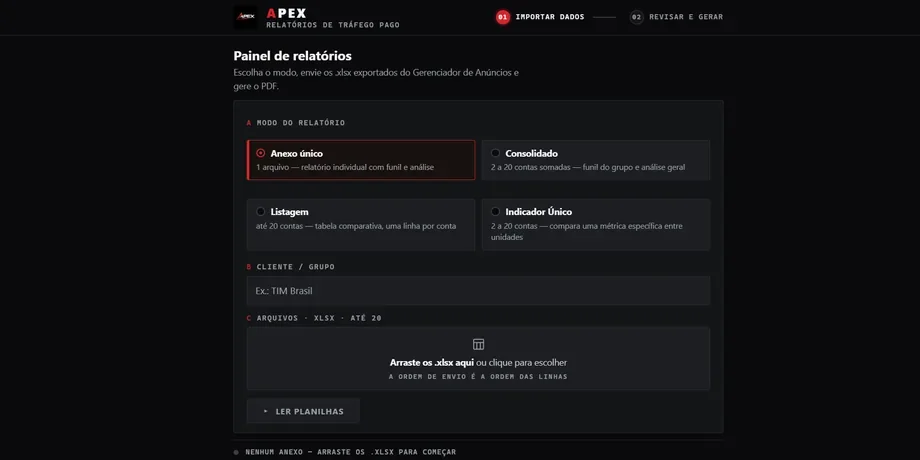
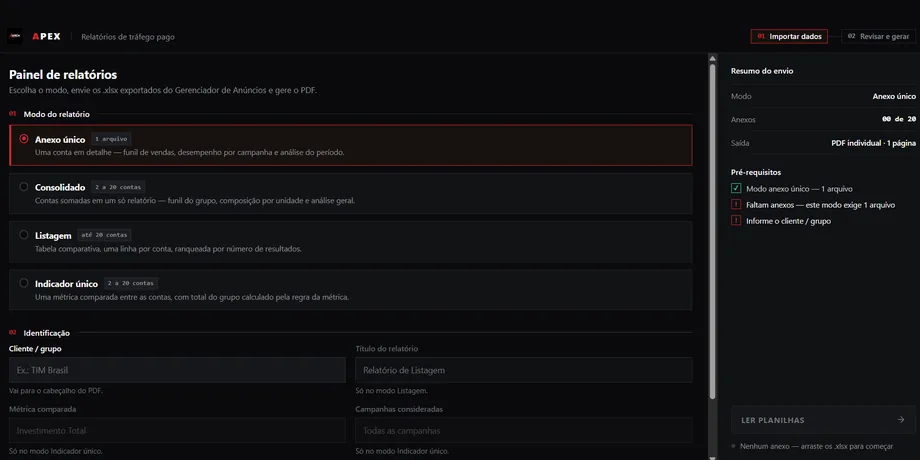
feat: Turn Experience and Skills into carousels

diff --git a/static/css/style.css b/static/css/style.css
@@ -152,11 +152,6 @@ section[id] {
     .carousel-viewport {
         scroll-behavior: auto;
     }
-
-    .exp-row.is-collapsible .exp-body,
-    .exp-toggle-icon {
-        transition: none;
-    }
 }
 
 /* ---------- Header ---------- */
@@ -514,13 +509,35 @@ html:not([data-theme="light"]) .icon-sun {
 }
 
 /* ---------- Experiência ---------- */
+/* Cada cargo é um card do carrossel: as atividades ficam à vista e a seção
+   mantém a mesma altura por mais cargos que sejam cadastrados. */
 
-.exp-row {
+/* Dois por página (e não os três do padrão): as atividades do cargo precisam
+   de largura. A dupla classe é para vencer o `.carousel` base, que vem depois
+   nesta folha e tem a mesma especificidade. */
+.carousel.exp-carousel {
+    --per-view: 2;
+}
+
+.exp-card {
+    display: flex;
+    flex-direction: column;
+    gap: 18px;
+    padding: 24px;
+    border: 1px solid var(--pf-border);
+    border-radius: 8px;
+    background: color-mix(in srgb, var(--pf-surface) 55%, transparent);
+}
+
+.exp-card:hover {
+    border-color: var(--pf-accent);
+}
+
+.exp-card-head {
     display: grid;
-    grid-template-columns: minmax(56px, 88px) minmax(0, 340px) minmax(0, 1fr);
-    gap: var(--leading) clamp(24px, 4vw, 64px);
-    padding: calc(1.5 * var(--leading)) 0;
-    border-top: 1px solid var(--pf-border);
+    grid-template-columns: auto minmax(0, 1fr);
+    gap: 4px 16px;
+    align-items: start;
 }
 
 .exp-num {
@@ -532,8 +549,8 @@ html:not([data-theme="light"]) .icon-sun {
 
 .exp-role {
     font-weight: 500;
-    font-size: 22px;
-    line-height: 28px;
+    font-size: 20px;
+    line-height: 26px;
     letter-spacing: -0.01em;
     margin-bottom: 6px;
 }
@@ -551,65 +568,10 @@ html:not([data-theme="light"]) .icon-sun {
     font-variant-numeric: tabular-nums;
 }
 
-/* Atividades recolhidas: a seção fica curta e o visitante abre o que interessa.
-   Sem JS o botão não aparece e o conteúdo continua visível. */
-.exp-toggle {
-    display: none;
-    align-items: center;
-    gap: 8px;
-    height: 32px;
-    padding: 0 14px;
-    background: transparent;
-    border: 1px solid var(--pf-border);
-    border-radius: 999px;
-    color: var(--pf-muted);
-    font-size: 12.5px;
-    cursor: pointer;
-}
-
-.exp-row.is-collapsible .exp-toggle {
-    display: inline-flex;
-}
-
-.exp-toggle:hover {
-    background: color-mix(in srgb, var(--pf-accent) 12%, transparent);
-    color: var(--pf-accent);
-}
-
-.exp-row.is-open .exp-toggle {
-    border-color: var(--pf-accent);
-    color: var(--pf-accent);
-}
-
-.exp-toggle-icon {
-    transition: transform 0.25s ease;
-}
-
-.exp-row.is-open .exp-toggle-icon {
-    transform: rotate(180deg);
-}
-
-/* A altura anima de 0fr para 1fr: sem max-height chutado */
-.exp-row.is-collapsible .exp-body {
-    display: grid;
-    grid-template-rows: 0fr;
-    transition: grid-template-rows 0.35s ease;
-}
-
-.exp-row.is-collapsible.is-open .exp-body {
-    grid-template-rows: 1fr;
-}
-
-.exp-row.is-collapsible .exp-body-inner {
-    overflow: hidden;
-    padding-top: 18px;
-}
-
 .exp-details {
     display: flex;
     flex-direction: column;
     gap: 8px;
-    margin-bottom: 18px;
 }
 
 .exp-details li {
@@ -631,21 +593,31 @@ html:not([data-theme="light"]) .icon-sun {
     background: var(--pf-accent);
 }
 
+/* Fecha o card por baixo: com os cards esticados na mesma altura, as
+   habilidades do cargo ficam alinhadas no rodapé de todos eles. */
 .exp-skills {
+    margin-top: auto;
+    padding-top: 4px;
     font-size: 13px;
     line-height: 22px;
     color: var(--pf-muted);
 }
 
 /* ---------- Habilidades ---------- */
+/* Mesma ideia da experiência: uma categoria por card, paginadas na horizontal */
 
-.skill-row {
-    display: grid;
-    grid-template-columns: minmax(0, 280px) minmax(0, 1fr);
-    gap: 14px clamp(24px, 4vw, 64px);
-    padding: 22px 0;
-    border-top: 1px solid var(--pf-border);
-    align-items: baseline;
+.skill-card {
+    display: flex;
+    flex-direction: column;
+    gap: 14px;
+    padding: 22px;
+    border: 1px solid var(--pf-border);
+    border-radius: 8px;
+    background: color-mix(in srgb, var(--pf-surface) 55%, transparent);
+}
+
+.skill-card:hover {
+    border-color: var(--pf-accent);
 }
 
 .skill-name {
@@ -657,6 +629,7 @@ html:not([data-theme="light"]) .icon-sun {
 .skill-chips {
     display: flex;
     flex-wrap: wrap;
+    align-content: flex-start;
     gap: 8px;
 }
 
@@ -744,8 +717,14 @@ html:not([data-theme="light"]) .icon-sun {
     scroll-snap-align: start;
 }
 
-.project-card {
+/* Cada item ocupa 1/--per-view da viewport, então uma página cabe exata */
+.carousel-track > .project-card,
+.carousel-track > .exp-card,
+.carousel-track > .skill-card {
     flex: 0 0 calc((100% - (var(--per-view) - 1) * var(--carousel-gap)) / var(--per-view));
+}
+
+.project-card {
     display: flex;
     flex-direction: column;
     border: 1px solid var(--pf-border);
@@ -1449,10 +1428,17 @@ html:not([data-theme="light"]) .icon-sun {
     }
 }
 
+/* As atividades do cargo precisam de largura para não virar uma coluna
+   de palavras soltas: a experiência cai para um card por página antes
+   dos demais carrosséis. */
+@media (max-width: 980px) {
+    .carousel.exp-carousel {
+        --per-view: 1;
+    }
+}
+
 @media (max-width: 860px) {
     .hero-grid,
-    .exp-row,
-    .skill-row,
     .contact-grid {
         /* minmax(0, …) evita que conteúdo largo empurre a coluna */
         grid-template-columns: minmax(0, 1fr);
@@ -1477,10 +1463,6 @@ html:not([data-theme="light"]) .icon-sun {
 
     .hero-grid {
         gap: 32px;
-    }
-
-    .exp-row {
-        gap: 14px;
     }
 }
 

diff --git a/templates/core/home.html b/templates/core/home.html
@@ -50,26 +50,23 @@
         <span class="kicker">{% trans "Experiência" %}</span>
         <h2 class="section-title">{% trans "Onde eu trabalhei" %}</h2>
     </div>
-    {% for experience in experiences %}
-    <div class="exp-row reveal">
-        <p class="exp-num">{{ forloop.counter|stringformat:"02d" }}</p>
-        <div>
-            <h3 class="exp-role">{{ experience.role_i18n }}</h3>
-            {% if experience.company_url %}
-            <a href="{{ experience.company_url }}" target="_blank" rel="noopener" class="exp-company">{{ experience.company }}</a>
-            {% else %}
-            <span class="exp-company">{{ experience.company }}</span>
-            {% endif %}
-            <p class="exp-period">{{ experience.period_i18n }}</p>
-        </div>
-        <div>
-            <button type="button" class="exp-toggle" aria-expanded="false" aria-controls="expBody{{ forloop.counter }}"
-                    data-label-open="{% trans 'Ver atividades' %}" data-label-close="{% trans 'Ocultar atividades' %}">
-                <span class="exp-toggle-text">{% trans "Ver atividades" %}</span>
-                <svg class="exp-toggle-icon" width="13" height="13" viewBox="0 0 256 256" fill="currentColor" aria-hidden="true"><path d="M213.66 101.66l-80 80a8 8 0 0 1-11.32 0l-80-80a8 8 0 0 1 11.32-11.32L128 164.69l74.34-74.35a8 8 0 0 1 11.32 11.32Z"/></svg>
-            </button>
-            <div class="exp-body" id="expBody{{ forloop.counter }}">
-                <div class="exp-body-inner">
+    <div class="carousel exp-carousel" id="expCarousel">
+        <div class="carousel-viewport" role="region" tabindex="0" aria-label="{% trans 'Experiência' %}">
+            <div class="carousel-track exp-grid">
+                {% for experience in experiences %}
+                <article class="exp-card reveal">
+                    <div class="exp-card-head">
+                        <p class="exp-num">{{ forloop.counter|stringformat:"02d" }}</p>
+                        <div>
+                            <h3 class="exp-role">{{ experience.role_i18n }}</h3>
+                            {% if experience.company_url %}
+                            <a href="{{ experience.company_url }}" target="_blank" rel="noopener" class="exp-company">{{ experience.company }}</a>
+                            {% else %}
+                            <span class="exp-company">{{ experience.company }}</span>
+                            {% endif %}
+                            <p class="exp-period">{{ experience.period_i18n }}</p>
+                        </div>
+                    </div>
                     <ul class="exp-details">
                         {% for detail in experience.details_list %}
                         <li>{{ detail }}</li>
@@ -78,11 +75,12 @@
                     {% if experience.skills_i18n %}
                     <p class="exp-skills">{{ experience.skills_i18n }}</p>
                     {% endif %}
-                </div>
+                </article>
+                {% endfor %}
             </div>
         </div>
+        {% include "core/_carousel_controls.html" %}
     </div>
-    {% endfor %}
 </section>
 <hr class="rule">
 
@@ -92,16 +90,23 @@
         <span class="kicker">{% trans "Habilidades" %}</span>
         <h2 class="section-title">{% trans "O que eu uso para construir" %}</h2>
     </div>
-    {% for category in categories %}
-    <div class="skill-row reveal">
-        <h3 class="skill-name">{{ category.name_i18n }}</h3>
-        <div class="skill-chips">
-            {% for skill in category.skills.all %}
-            <span class="tag-chip">{{ skill.name_i18n }}</span>
-            {% endfor %}
+    <div class="carousel skills-carousel" id="skillsCarousel">
+        <div class="carousel-viewport" role="region" tabindex="0" aria-label="{% trans 'Habilidades' %}">
+            <div class="carousel-track skills-grid">
+                {% for category in categories %}
+                <article class="skill-card reveal">
+                    <h3 class="skill-name">{{ category.name_i18n }}</h3>
+                    <div class="skill-chips">
+                        {% for skill in category.skills.all %}
+                        <span class="tag-chip">{{ skill.name_i18n }}</span>
+                        {% endfor %}
+                    </div>
+                </article>
+                {% endfor %}
+            </div>
         </div>
+        {% include "core/_carousel_controls.html" %}
     </div>
-    {% endfor %}
 </section>
 <hr class="rule">
 

diff --git a/static/js/main.js b/static/js/main.js
@@ -59,7 +59,7 @@ if ('IntersectionObserver' in window && !window.matchMedia('(prefers-reduced-mot
 }
 
 // ============================================
-// CARROSSEL (projetos e certificações)
+// CARROSSEL (experiência, habilidades, projetos e certificações)
 // Pagina os itens na horizontal para a seção não crescer conforme o conteúdo aumenta
 // ============================================
 function initCarousel(root) {
@@ -210,40 +210,6 @@ if (projectFilters) {
         });
     });
 }
-
-// ============================================
-// EXPERIÊNCIA: ATIVIDADES RECOLHIDAS
-// Cada cargo abre as próprias atividades; a seção não nasce comprida.
-// ============================================
-document.querySelectorAll('.exp-row').forEach((row) => {
-    const toggle = row.querySelector('.exp-toggle');
-    const body = row.querySelector('.exp-body');
-    if (!toggle || !body) return;
-
-    // Só recolhe quando o JS está de pé (sem JS o conteúdo continua legível)
-    row.classList.add('is-collapsible');
-
-    const label = toggle.querySelector('.exp-toggle-text');
-    const reduced = window.matchMedia('(prefers-reduced-motion: reduce)').matches;
-
-    toggle.addEventListener('click', () => {
-        const open = !row.classList.contains('is-open');
-        row.classList.toggle('is-open', open);
-        toggle.setAttribute('aria-expanded', String(open));
-        if (label) {
-            label.textContent = open ? toggle.dataset.labelClose : toggle.dataset.labelOpen;
-        }
-
-        // Depois de expandir, traz o final da linha para a tela
-        if (open && !reduced) {
-            window.setTimeout(() => {
-                if (row.getBoundingClientRect().bottom > window.innerHeight) {
-                    row.scrollIntoView({ block: 'nearest', behavior: 'smooth' });
-                }
-            }, 380);
-        }
-    });
-});
 
 // ============================================
 // COMMAND PALETTE
